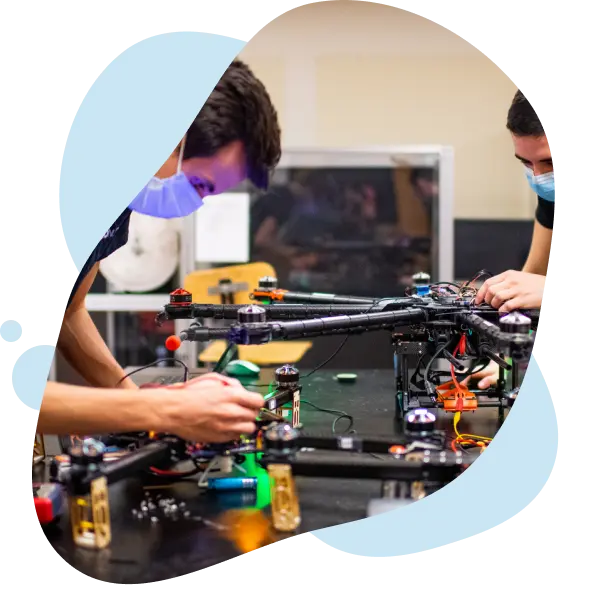
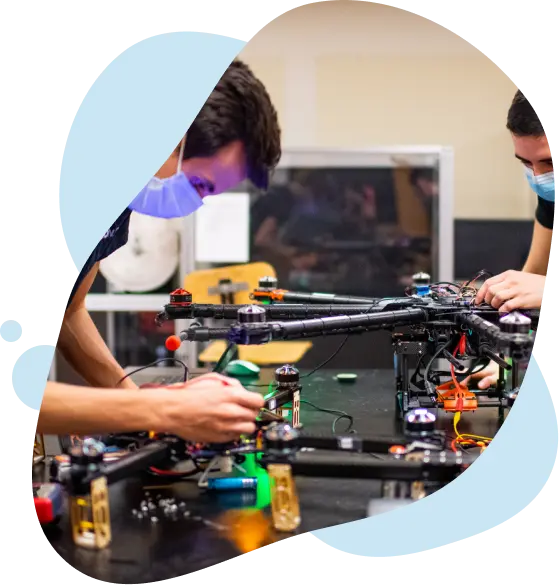
responsive main page sections fix

diff --git a/src/pages/index.tsx b/src/pages/index.tsx
@@ -139,7 +139,7 @@ export default function Home() {
           <Image id="cloud3" className="w-full xl:w-[40%] xl:left-[60%] lg:mt-[10rem] -left-[30%] z-10 absolute -top-40 " src='/Clouds3.png' width={100} height={100} alt="cloudimage1"></Image>
         </div>
         
-        <section className='z-20 grid grid-cols-1 md:grid-cols-4 text-center md:text-start relative h-fit pt-[10rem] w-full max-w-[80vw] justify-between gap-12 m-auto max-md:flex-col items-center'>
+        <section className='z-20 max-w-[1700px] grid grid-cols-1 md:grid-cols-4 text-center md:text-start relative h-fit pt-[10rem] w-[80vw] justify-between gap-12 m-auto max-md:flex-col items-center'>
           <div className='flex md:col-span-2 order-last md:order-first gap-4 flex-col align-start '>
             <div className="flex flex-col gap-2 mb-4">
               <h3 className='ml-1'>ABOUT US</h3>
@@ -150,15 +150,15 @@ export default function Home() {
             <MyButton text={"Join Now!"}></MyButton>
             </div>
           </div>
-          <div className="md:col-span-2 md:max-xl:min-w-[40rem] xl:justify-self-end rounded-md ">
-            <img className='z-20 md:ml-10 rounded-md' src="/daviation-image-blob.webp" alt="about us image" />
+          <div className="md:col-span-2 max-md:justify-self-center max-md:max-w-[28rem] md:max-xl:min-w-[40rem] xl:justify-self-end min-[1800px]:justify-self-center rounded-md">
+            <img className='z-20 rounded-md' src="/daviation-image-blob.webp" alt="about us image" />
           </div>
         </section>
-        <section className='z-20 py-[6rem] grid grid-cols-1 md:grid-cols-4 text-center md:text-start relative h-fit  w-full max-w-[80vw] justify-between gap-4 m-auto max-md:flex-col items-center'>
+        <section className='z-20 max-w-[1700px] py-[6rem] grid grid-cols-1 md:grid-cols-4 text-center md:text-start relative h-fit w-[80vw] justify-between gap-4 m-auto max-md:flex-col items-center '>
           <div className="md:col-span-3 col-span-4 rounded-md ">
             <img className='z-20 rounded-md' src="/drone-img.webp" alt="about us image" />
           </div>
-          <div className='flex col-span-4 md:col-span-1 gap-4 flex-col align-start '>
+          <div className='flex col-span-4 md:col-span-1 gap-4 flex-col md:ditems-start items-center'>
             <div className="flex flex-col gap-2">
               <h1 className="text-[3rem] leading-[3.2rem]  text-[#133C54] font-bold">Our Drone</h1>
             </div>
